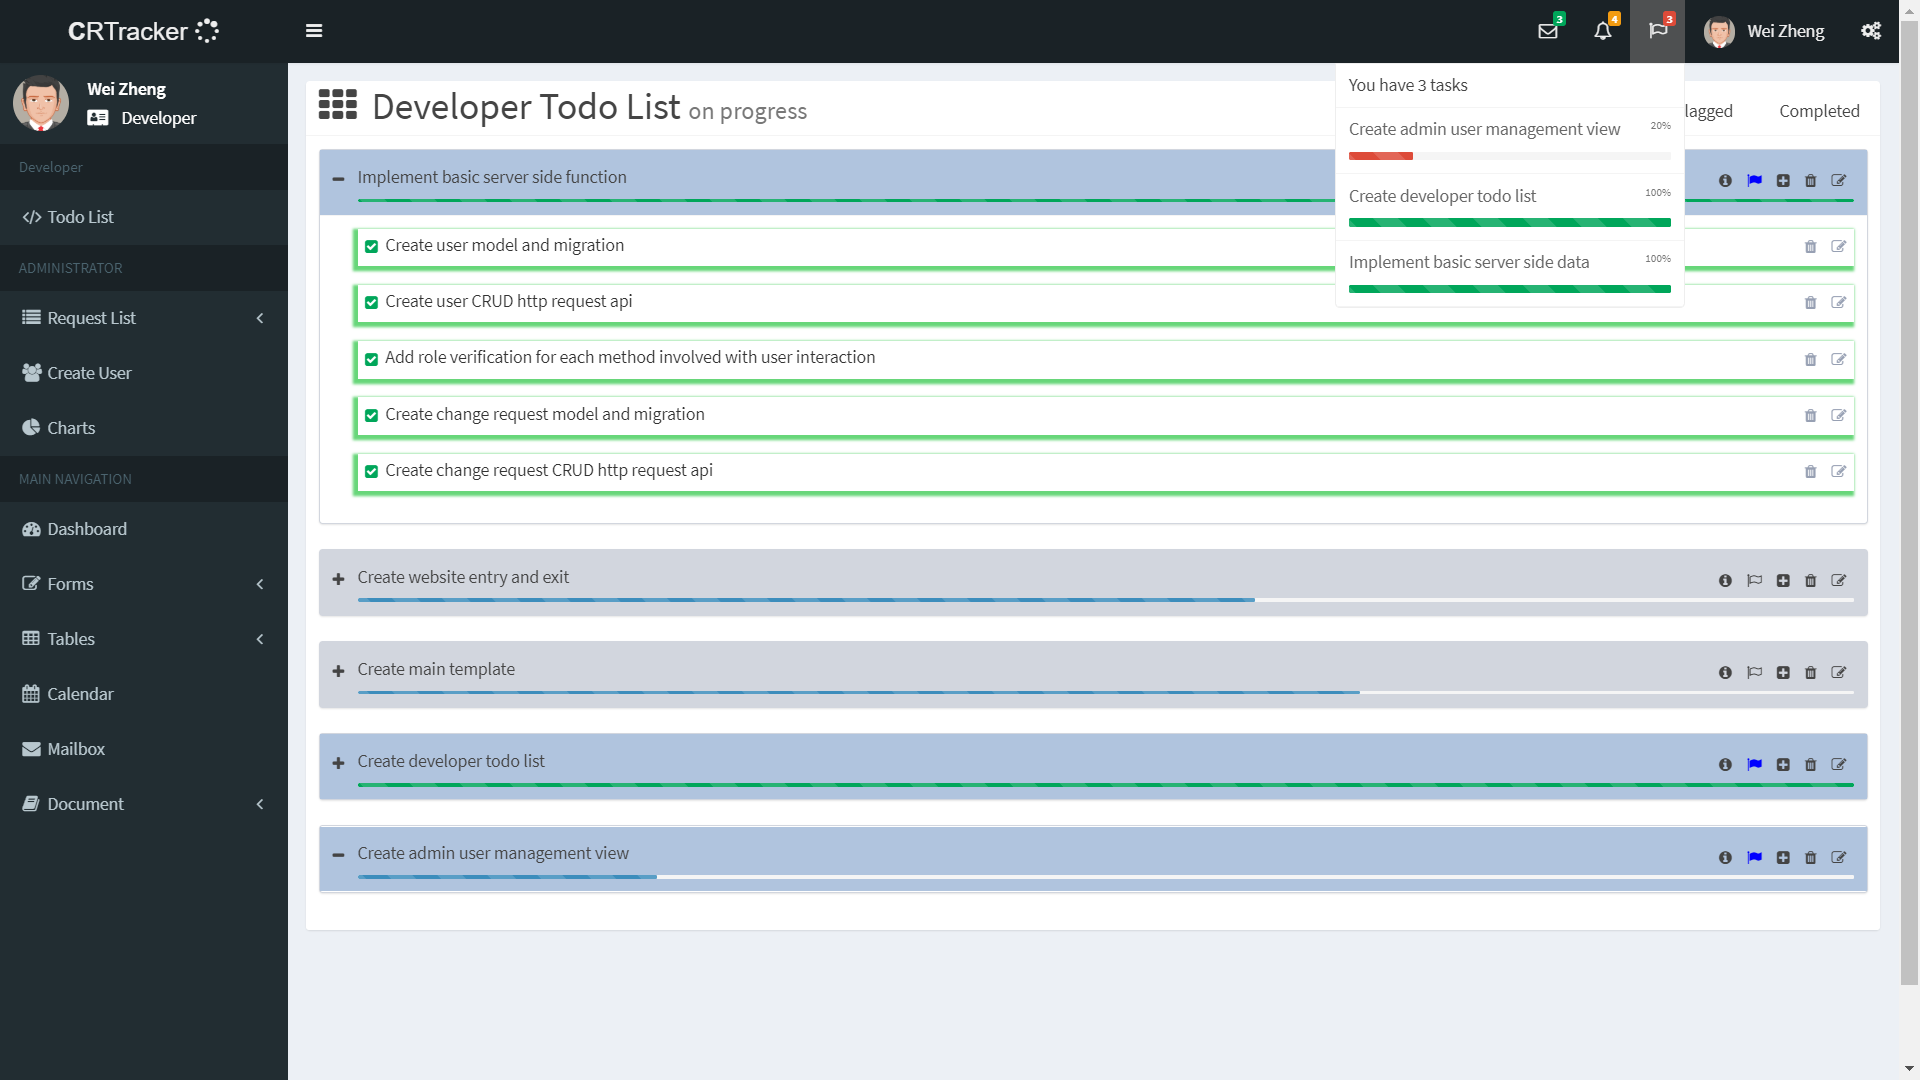
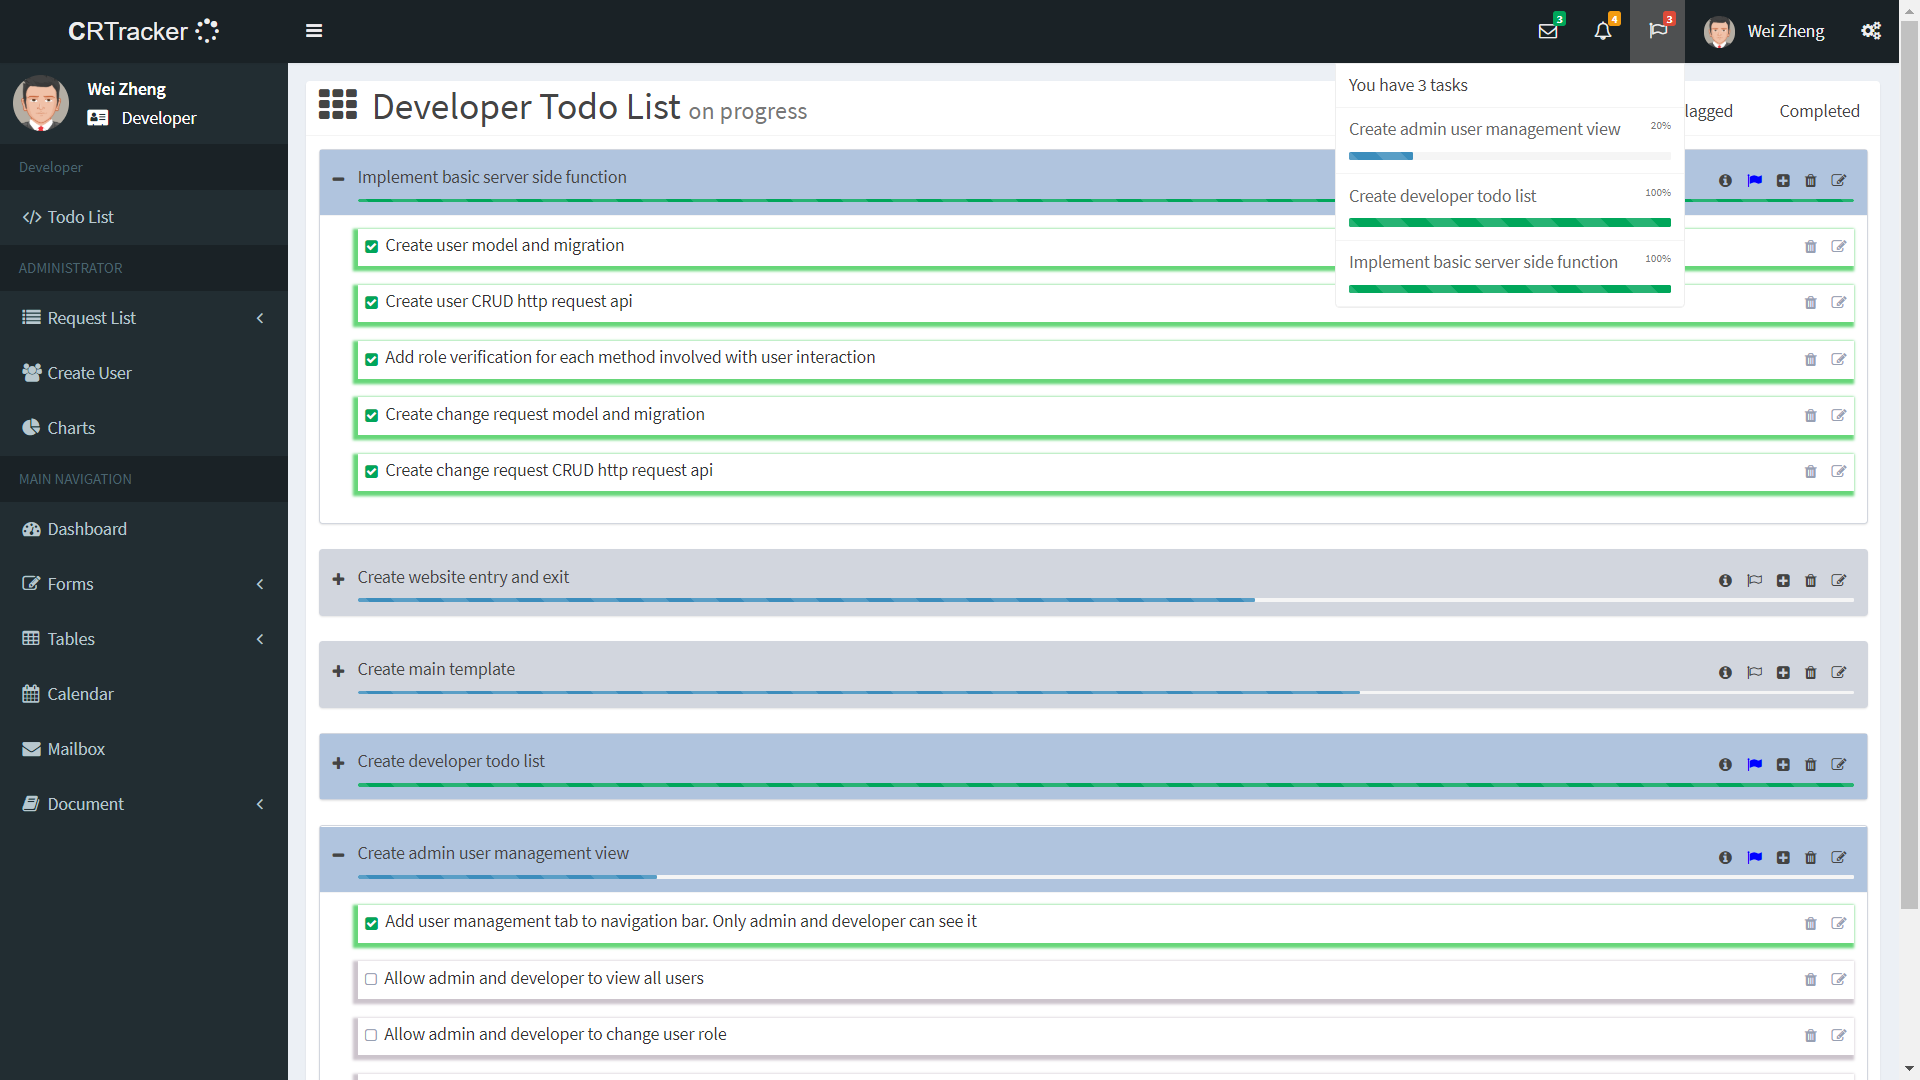
Config

diff --git a/client/src/components/Main/Header.vue b/client/src/components/Main/Header.vue
@@ -204,9 +204,6 @@ export default {
 
     //define progress bar color based on its percentage
     getProgressBarColor: percent =>{
-      if(percent<=20){
-        return "progress-bar-danger";
-      }
       if(percent<100){
         return "progress-bar-primary";
       }
